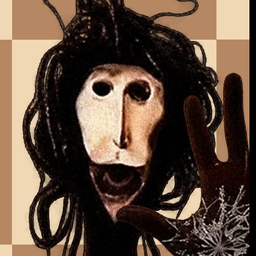
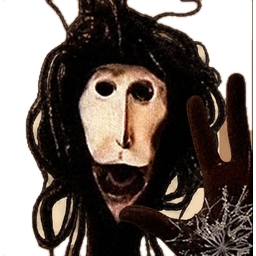
ov-art2 art: Locust jumpscare background cut out; Seirawan hawk pair re-cut crisp from the video with outline (black = charcoal neo style)

diff --git a/rebuild/research/polish_report.md b/rebuild/research/polish_report.md
@@ -216,6 +216,7 @@ Tools (sandbox, not in repo): /workspace/work/ov_art2_tools/ (mono_set.py = rebu
 - Checked clean, no change: d-4NWgCwzco, Nz2A-g73_iM, OVM-2QJ2NFQ, dKBSZUzVQ1E (2D view; 3D is ov-3d), WXcmWG7Eczs, boaA9_TjXeU, fUQXSj5jVUk, PszkLYudcws, dkCMhNcZezM, dztzDlPfqSI, NK4Upb_s8Ok, OO3XlFQ32i0, c-_Th-jjfyM.
 - WEYUcaJTBso (King of the Bridge; set shared by 0LO0D0rOif0 1FKa1LnTDeQ 4KetMbEVvhI M0rsyuvaTrk Y7KKKTTkwNk hv_NHWqysZE puKYAUl9x9s ulE3YPZI9Sc): FIX the pixel set (pixel/*.svg) was a blurry JPEG-smudged cut (700-1500 colours per piece) -> re-cut from the Steam store screenshot (https://shared.fastly.steamstatic.com/store_item_assets/steam/apps/2523120/ss_84137ac7e990878b5d2fcfad8b24a4c345749d0b.jpg, start position, 77px squares) snapped to the game's 6-colour palette, crisp 256px nearest-neighbour, bottom-aligned at one common scale; black R/B/Q/N/P = the same shapes in the game's dark green; black king (hooded troll piece, back-rank cut merges with the board wall) redrawn as pixel art from that frame (cross-checked on https://i.redd.it/ym5i5yrtokoc1.png). Troll avatar: leftover title-card background replaced by flat dark green.
 - Y7KKKTTkwNk (King of the Bridge goose ending): uses the WEYUcaJTBso set + troll above.
+- PDCuJf3SdRY (Locust): FIX locust.png (jumpscare + board overlay) had the video's chessboard squares baked in behind the figure -> background cut to transparent, figure kept. QA 390/360 ok.
 RESUME: last id done = Y7KKKTTkwNk (priority order in /workspace/work/ov_art2_ids.txt; next d8pJkdxtXAA)
 - CxtttdnwNWk + 1_FSHqyc904 (Chess Ultimate, both modes share cu/): 40 tokens rebuilt at 256px from the game's own character renders (TierMaker template, URL in both source.notes) cut out with rembg on a sky disc inside the same cyan/red side ring; old video crops were blurry partial faces and Pawn had a red glow halo. Dragon/Fisherman/Minion (not in that set) keep their video crops, re-ringed to match. Jester keeps the King art on purpose (rules: it looks exactly like a King).
 - 7lEglazTlo8 (Soko Chess): black pawn, yellow pawn and the red/green target icons were 25-96px blurry crops; redrawn as one crisp 192px pawn SVG shape in the video colours.
